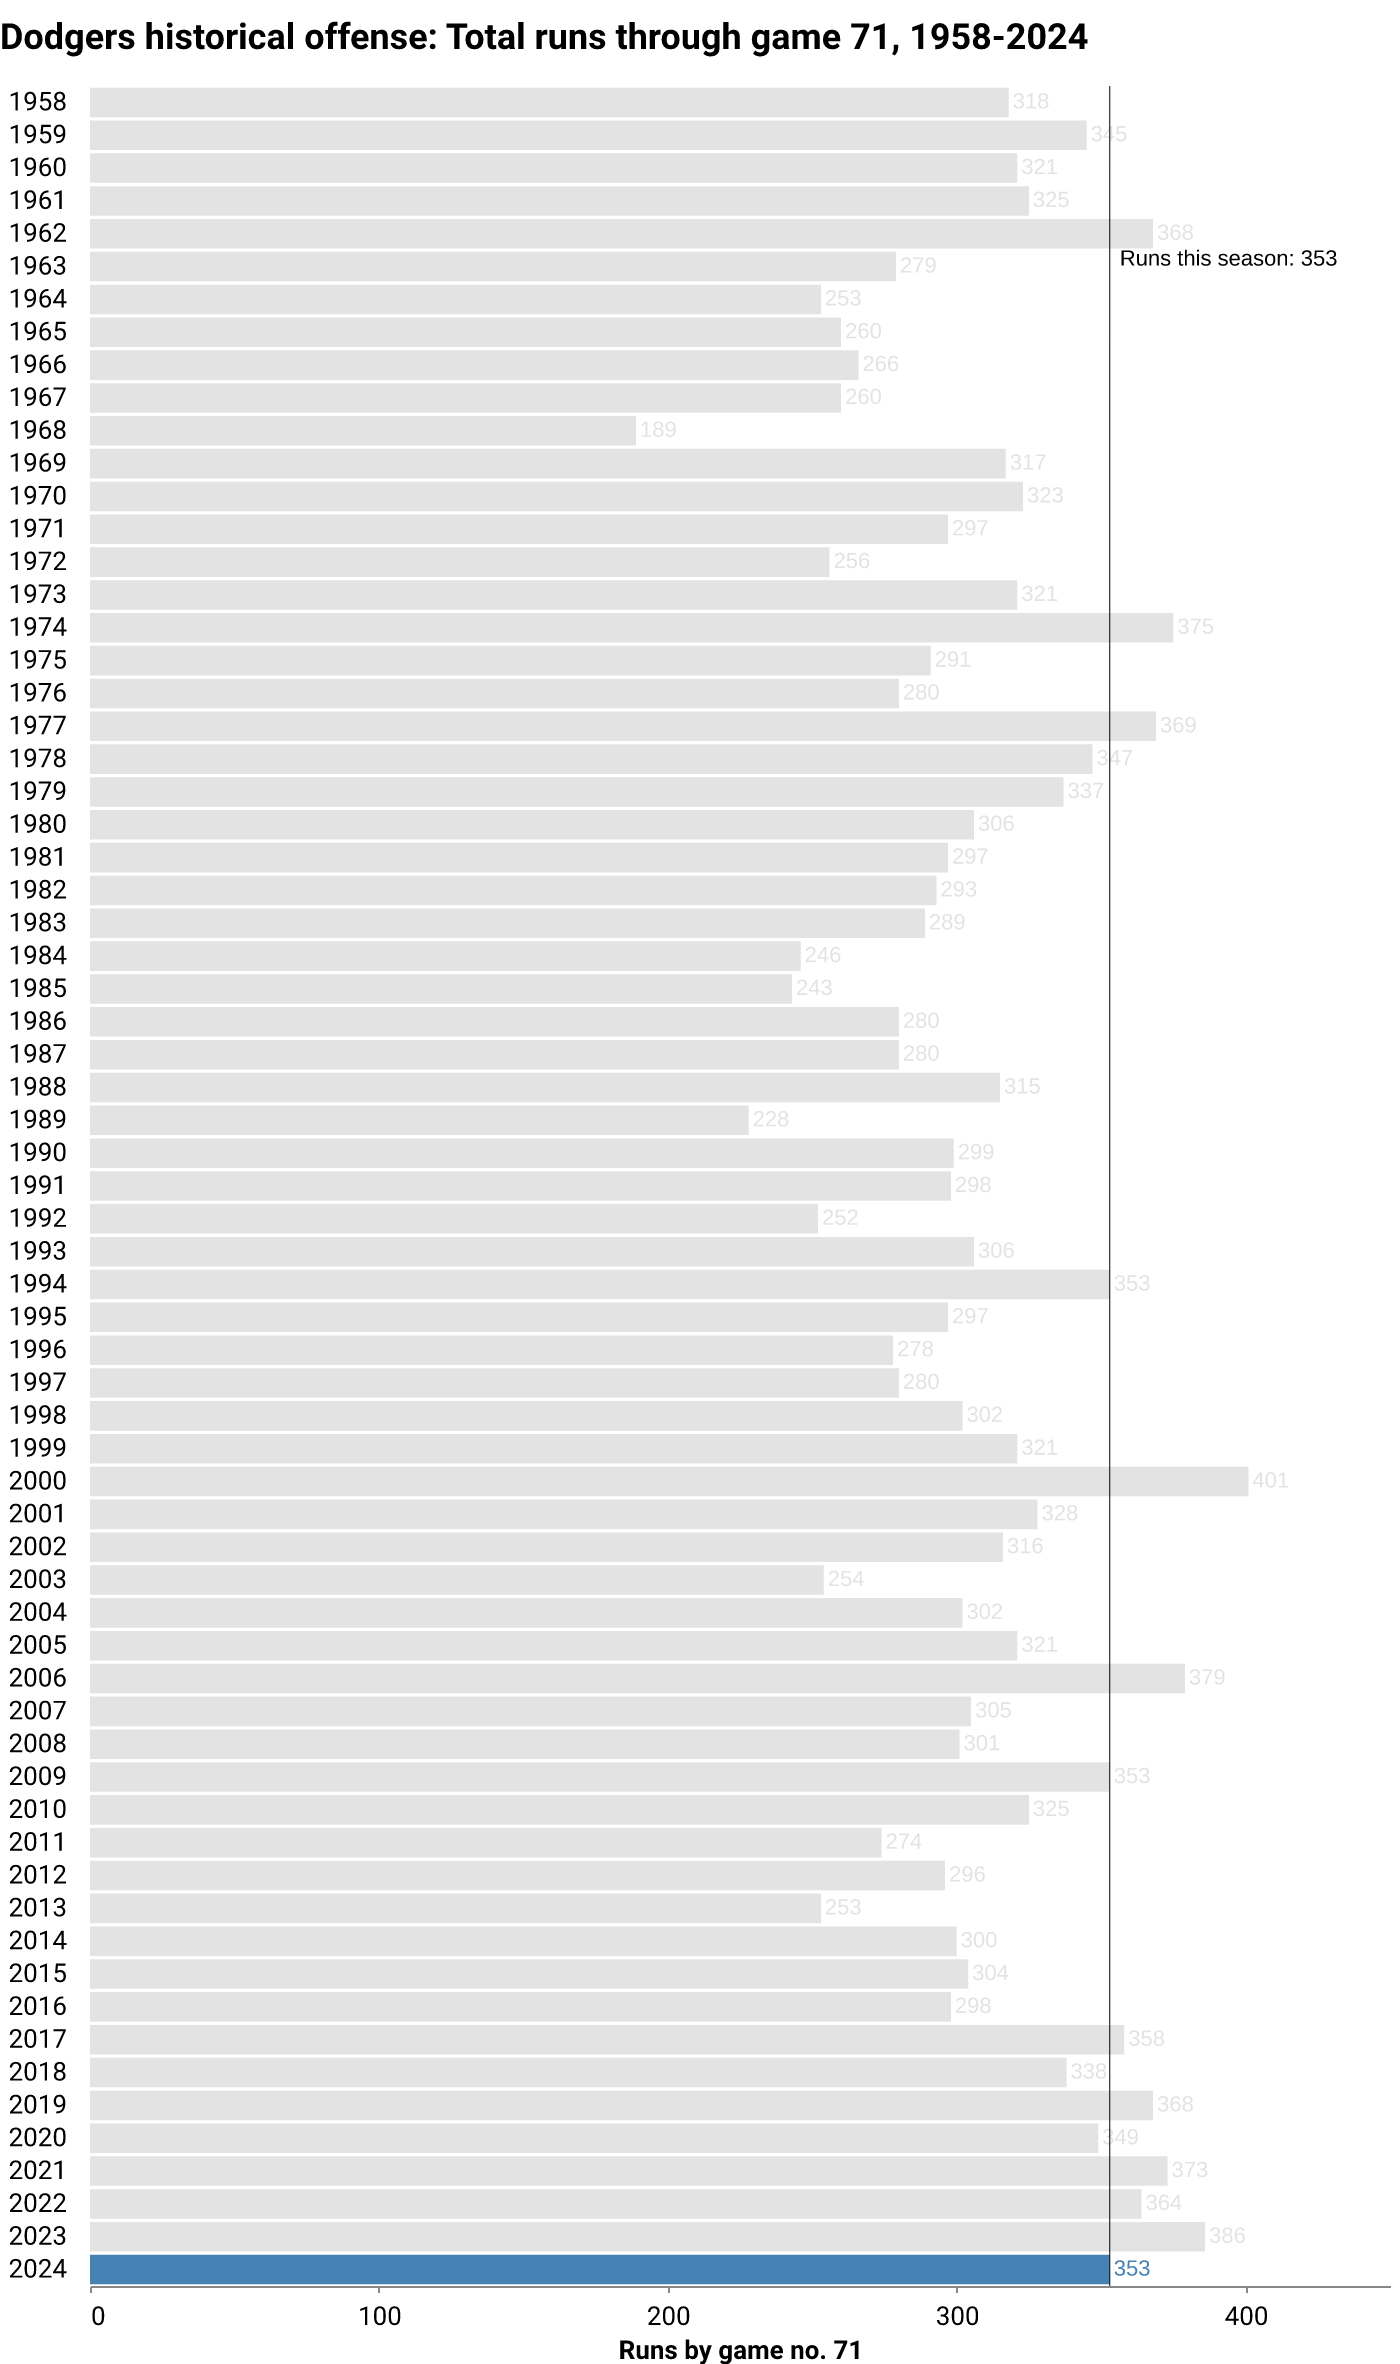
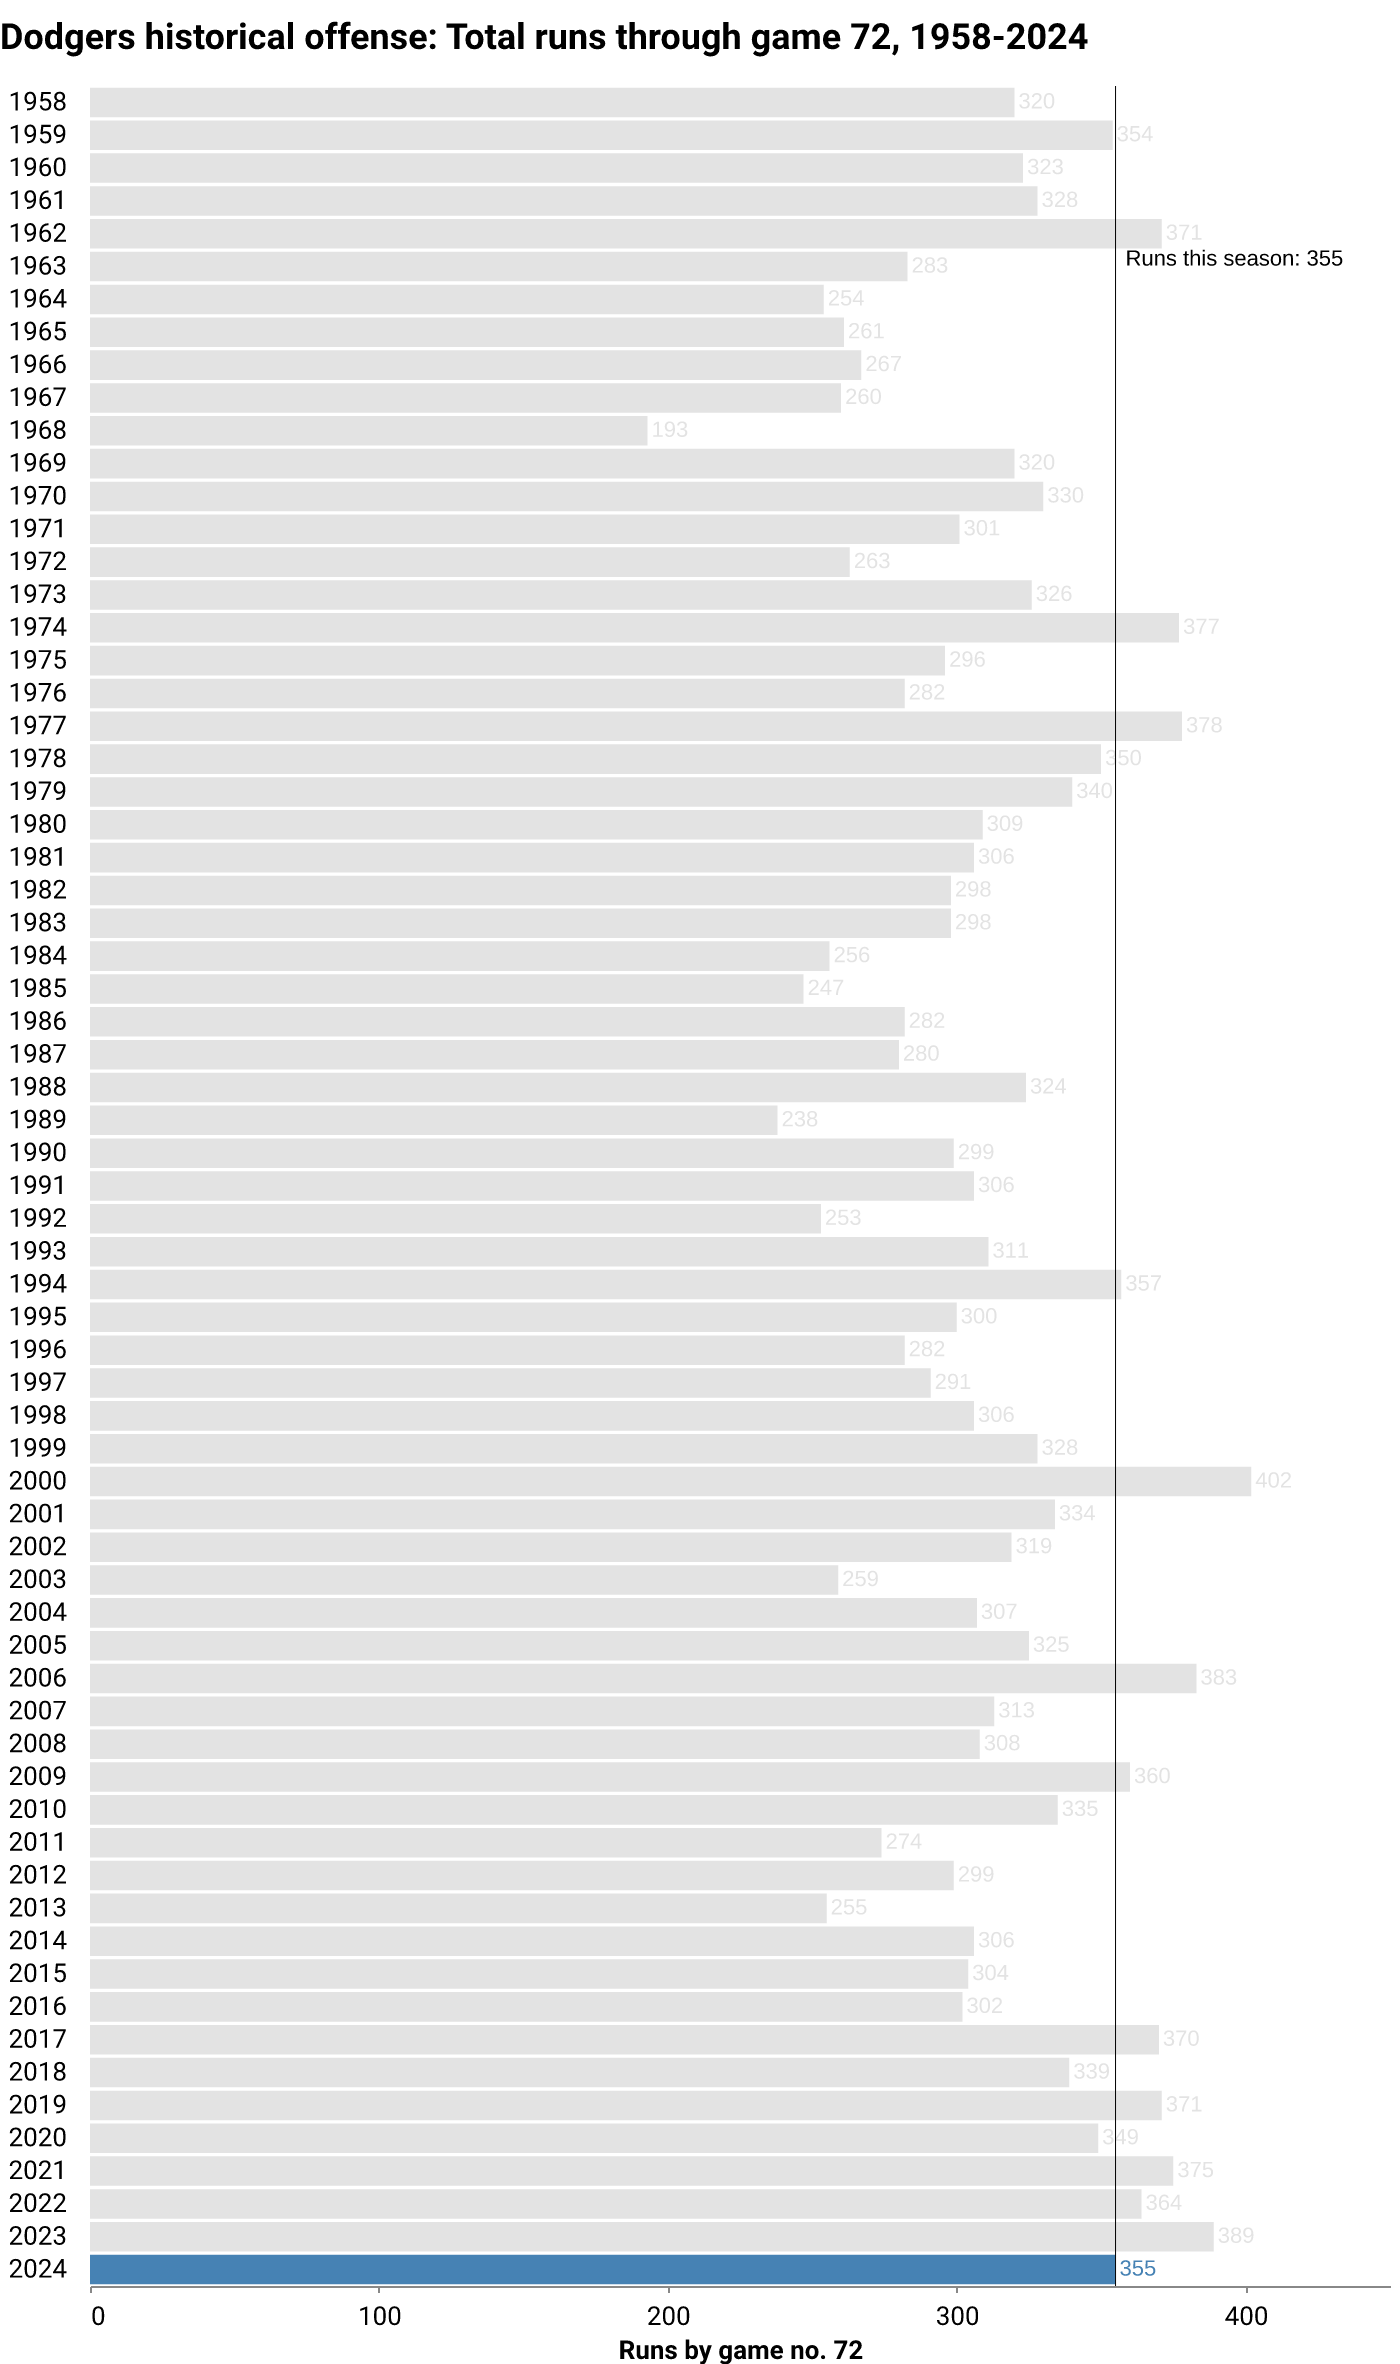
deploy: d49c1c8ed9409eb2c566457b5c500322900bb600

diff --git a/index.html b/index.html
@@ -177,14 +177,14 @@
     
     
     
-        <i class="fa-solid fa-arrow-trend-up" style="color: #005a9c;"></i>
+        <i class="fa-solid fa-arrow-trend-down" style="color: #ef3e42;"></i>
     
 </div>
 <h1 class="headline">How are the Dodgers doing?</h1>
 <p class="subhead">
     
     
-    <span class="highlight">LOS ANGELES</span> <span class="updated">(June 16)</span> — After <span class="highlight">71</span> games this season, the Dodgers are in <span class="highlight">1st</span> place in the National League West division. The team has compiled a <span class="highlight">43-28</span> record, winning <span class="highlight">61%</span> of its games so far. The last game was a <span class="highlight">4-3</span> home <span class="highlight">win</span> against the Kansas City Royals in front of <span class="highlight">49,580</span> fans. They've won <span class="highlight">5 of the last 10</span>.
+    <span class="highlight">LOS ANGELES</span> <span class="updated">(June 16)</span> — After <span class="highlight">72</span> games this season, the Dodgers are in <span class="highlight">1st</span> place in the National League West division. The team has compiled a <span class="highlight">43-29</span> record, winning <span class="highlight">60%</span> of its games so far. The last game was a <span class="highlight">2-7</span> home <span class="highlight">loss</span> against the Kansas City Royals in front of <span class="highlight">50,423</span> fans. They've won <span class="highlight">5 of the last 10</span>.
 </p>
 </div>
 
@@ -222,10 +222,10 @@
             Losses
           </div>
           <div class="card-body">
-            <p class="card-text">28</p>
+            <p class="card-text">29</p>
           </div>
           <div class="card-footer text-muted">
-        This point last season: 32
+        This point last season: 33
           </div>
         </div>
       </div>
@@ -238,10 +238,10 @@
             Record
           </div>
           <div class="card-body">
-            <p class="card-text">43-28</p>
+            <p class="card-text">43-29</p>
           </div>
           <div class="card-footer text-muted">
-        This point last season: 39-32
+        This point last season: 39-33
           </div>
         </div>
       </div>
@@ -254,10 +254,10 @@
             Win percentage
           </div>
           <div class="card-body">
-            <p class="card-text">61%</p>
+            <p class="card-text">60%</p>
           </div>
           <div class="card-footer text-muted">
-        This point last season: 55%
+        This point last season: 54%
           </div>
         </div>
       </div>
@@ -286,10 +286,10 @@
             Avg. home attendance
           </div>
           <div class="card-body">
-            <p class="card-text">47,030</p>
+            <p class="card-text">47,120</p>
           </div>
           <div class="card-footer text-muted">
-        Home games this season: 37
+        Home games this season: 38
           </div>
         </div>
       </div>
@@ -302,7 +302,7 @@
             Runs
           </div>
           <div class="card-body">
-            <p class="card-text">353</p>
+            <p class="card-text">355</p>
           </div>
           <div class="card-footer text-muted">
         League rank: 1
@@ -318,10 +318,10 @@
             Runs against
           </div>
           <div class="card-body">
-            <p class="card-text">250</p>
+            <p class="card-text">257</p>
           </div>
           <div class="card-footer text-muted">
-        This point last season: 340
+        This point last season: 347
           </div>
         </div>
       </div>
@@ -334,10 +334,10 @@
             Run differential
           </div>
           <div class="card-body">
-            <p class="card-text">103</p>
+            <p class="card-text">98</p>
           </div>
           <div class="card-footer text-muted">
-        This point last season: 46
+        This point last season: 42
           </div>
         </div>
       </div>
@@ -408,7 +408,7 @@
             Batting average
           </div>
           <div class="card-body">
-            <p class="card-text">.257</p>
+            <p class="card-text">.256</p>
           </div>
           <div class="card-footer text-muted">
         Last decade average: .253
@@ -440,7 +440,7 @@
             Home runs/game
           </div>
           <div class="card-body">
-            <p class="card-text">1.34</p>
+            <p class="card-text">1.32</p>
           </div>
           <div class="card-footer text-muted">
         Last decade average: 1.36
@@ -456,7 +456,7 @@
             On-base percentage
           </div>
           <div class="card-body">
-            <p class="card-text">.336</p>
+            <p class="card-text">.335</p>
           </div>
           <div class="card-footer text-muted">
         Last decade average: .332
@@ -488,7 +488,7 @@
             Stolen bases/game
           </div>
           <div class="card-body">
-            <p class="card-text">0.62</p>
+            <p class="card-text">0.61</p>
           </div>
           <div class="card-footer text-muted">
         Rate all last season: 0.65
@@ -598,7 +598,7 @@
             Strikeouts
           </div>
           <div class="card-body">
-            <p class="card-text">609</p>
+            <p class="card-text">617</p>
           </div>
           <div class="card-footer text-muted">
         League rank: 4
@@ -614,7 +614,7 @@
             Walks
           </div>
           <div class="card-body">
-            <p class="card-text">207</p>
+            <p class="card-text">213</p>
           </div>
           <div class="card-footer text-muted">
         League rank: 5
@@ -630,7 +630,7 @@
             ERA
           </div>
           <div class="card-body">
-            <p class="card-text">3.25</p>
+            <p class="card-text">3.31</p>
           </div>
           <div class="card-footer text-muted">
         League rank: 2
@@ -708,7 +708,7 @@
     </div>
 </div>
 
-  <p class="dated">Notes: Last updated June 16, 2024, 12:04 AM PT. More <a href="https://github.com/stiles/dodgers/blob/main/README.md">about the data</a>.</p>
+  <p class="dated">Notes: Last updated June 16, 2024, 4:04 AM PT. More <a href="https://github.com/stiles/dodgers/blob/main/README.md">about the data</a>.</p>
   
 </div>
 
